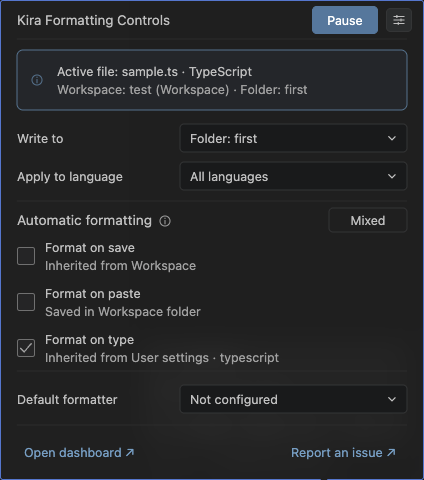
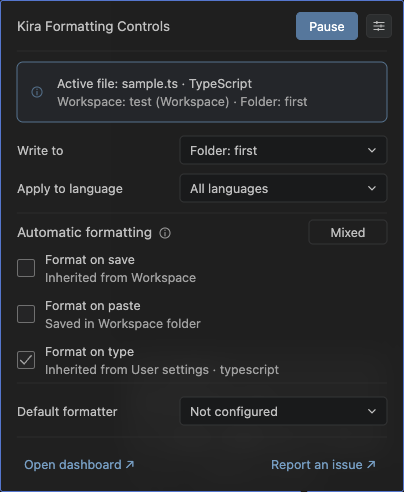
style(status): apply padded compact header and clearer help

diff --git a/shared/status-artwork.ts b/shared/status-artwork.ts
@@ -118,7 +118,7 @@ export function statusArtwork(
     anchor: "start" | "middle" = "start",
   ) =>
     `<text x="${x}" y="${y}" font-size="${size}" fill="${color}" text-anchor="${anchor}" dominant-baseline="central">${escapeText(value)}</text>`;
-  const line = (y: number) => `<path d="M5 ${y}H395" stroke="${p.line}"/>`;
+  const line = (y: number) => `<path d="M5 ${y}H375" stroke="${p.line}"/>`;
   const infoGlyph = (x: number, y: number, color: string) =>
     `<circle cx="${x}" cy="${y}" r="5" stroke="${color}" fill="none"/><circle cx="${x}" cy="${y - 2.75}" r=".55" fill="${color}"/><path d="M${x} ${y - 0.46}v3.2" stroke="${color}" stroke-width="1.1" stroke-linecap="round"/>`;
   const rect = (
@@ -132,10 +132,10 @@ export function statusArtwork(
   ) =>
     `<rect x="${x}" y="${y}" width="${w}" height="${h}" rx="${r}" stroke="${stroke}" fill="${fill}"/>`;
   const dropdown = (y: number, value: string) =>
-    rect(168, y, 227, 28) +
-    centeredText(178, y + 14, shortened(value, 30)) +
-    `<path d="M376.5 ${y + 12.25}l3.5 3.5 3.5-3.5" fill="none" stroke="${p.fg}" stroke-width="1.2"/>`;
-  const svg = (height: number, contents: string, width = 400) =>
+    rect(168, y, 207, 28) +
+    centeredText(178, y + 14, shortened(value, 28)) +
+    `<path d="M356.5 ${y + 12.25}l3.5 3.5 3.5-3.5" fill="none" stroke="${p.fg}" stroke-width="1.2"/>`;
+  const svg = (height: number, contents: string, width = 380) =>
     `<svg xmlns="http://www.w3.org/2000/svg" width="${width}" height="${height}" viewBox="0 0 ${width} ${height}"><g font-family="-apple-system, BlinkMacSystemFont, Segoe WPC, Segoe UI, system-ui, Ubuntu, Droid Sans, sans-serif" font-weight="400">${contents}</g></svg>`;
   const state = context.flags.every(Boolean)
     ? "Enabled"
@@ -165,7 +165,7 @@ export function statusArtwork(
     height: number,
     contents: string,
     alt: string,
-    width = 400,
+    width = 380,
   ) => ({ svg: svg(height, contents, width), alt, width, height });
   // Keep the info gap stable when the renderer selects a wider fallback font.
   const formattingHeading = `<text x="5" y="14" dominant-baseline="central" font-size="13.5" textLength="135" lengthAdjust="spacingAndGlyphs" fill="${p.fg}">Automatic formatting</text>`;
@@ -181,7 +181,7 @@ export function statusArtwork(
         centeredText(
           33,
           y + 27,
-          shortened(sourceNotes[i] ?? "", 54),
+          shortened(sourceNotes[i] ?? "", 51),
           12.5,
           p.muted,
         )
@@ -210,18 +210,18 @@ export function statusArtwork(
       16,
     ),
     header: image(
-      28,
-      centeredText(5, 14, "Kira Formatting Controls", 13.5),
+      40,
+      centeredText(5, 20, "Kira Formatting Controls", 13.5),
       "Kira Formatting Controls",
-      270,
+      250,
     ),
     context: image(
       76,
       line(1) +
-        rect(5, 12, 390, 60, p.focus, p.info, 6) +
+        rect(5, 12, 370, 60, p.focus, p.info, 6) +
         infoGlyph(25, 42, p.focus) +
-        centeredText(45, 33, shortened(file, 51)) +
-        centeredText(45, 51, shortened(workspace, 51), 12.5, p.muted),
+        centeredText(45, 33, shortened(file, 48)) +
+        centeredText(45, 51, shortened(workspace, 48), 12.5, p.muted),
       `${file}. ${workspace}.`,
     ),
     scopes: image(
@@ -246,8 +246,8 @@ export function statusArtwork(
       formattingHeading +
         // Optical alignment with the heading's visible glyphs, not its font box.
         infoGlyph(153, 15, p.muted) +
-        rect(317, 2, 78, 24, p.border, "none") +
-        centeredText(356, 14, state, 12.5, p.fg, "middle"),
+        rect(297, 2, 78, 24, p.border, "none") +
+        centeredText(336, 14, state, 12.5, p.fg, "middle"),
       `Automatic formatting: ${state}`,
     ),
     formatting: image(
@@ -269,13 +269,13 @@ export function statusArtwork(
       rect(
         0.5,
         0.5,
-        65,
+        61,
         27,
         context.canPause ? p.primary : p.border,
         context.canPause ? p.primary : p.button,
       ) +
         centeredText(
-          33,
+          31,
           14,
           pauseLabel,
           12.5,
@@ -283,16 +283,18 @@ export function statusArtwork(
           "middle",
         ),
       pauseLabel,
-      66,
+      62,
     ),
-    headerGap: image(28, "", "", 8),
+    // A taller, unlinked spacer centers the real buttons without enlarging
+    // their click targets. Native row insets provide the remaining padding.
+    headerGap: image(40, "", "", 8),
     dashboard: image(
       28,
       `<text x="12" y="14" dominant-baseline="central" font-size="12.5" textLength="110.57" lengthAdjust="spacingAndGlyphs" fill="${p.accent}">Open dashboard ↗</text>`,
       "Open dashboard ↗",
       139,
     ),
-    footerGap: image(36, "", "", 128),
+    footerGap: image(36, "", "", 108),
     issue: image(
       28,
       `<text x="12" y="14" dominant-baseline="central" font-size="12.5" textLength="104.81" lengthAdjust="spacingAndGlyphs" fill="${p.accent}">Report an issue ↗</text>`,

diff --git a/test/status.ts b/test/status.ts
@@ -79,7 +79,7 @@ export async function reviewStatus(
           badgeOffsetX: badgeText.x + badgeText.width/2 - 39,
           badgeOffsetY: badgeText.y + badgeText.height/2 - 14,
           contextOffsetY: (file.y + workspace.y + workspace.height)/2 - 42,
-          pauseOffsetX: pauseText.x + pauseText.width/2 - 33,
+          pauseOffsetX: pauseText.x + pauseText.width/2 - art.pause.width/2,
           pauseOffsetY: pauseText.y + pauseText.height/2 - 14,
           summaryHeadingOffsetY: summaryHeading.y + summaryHeading.height/2 - 14,
           summaryIconOffsetY: summaryIcon.y + summaryIcon.height/2 - 14,
@@ -301,6 +301,11 @@ export async function reviewStatus(
   const issueBounds = await issue.getByRole("img").boundingBox();
   assert.ok(contextBounds && dashboardBounds && issueBounds);
   assert.equal(
+    contextBounds.width,
+    380,
+    "The card uses the approved narrower content width",
+  );
+  assert.equal(
     dashboardBounds.x,
     contextBounds.x,
     "Footer shares the context artwork's left edge",
@@ -386,7 +391,7 @@ export async function reviewStatus(
   assert.equal(await pauseLink.getAttribute("title"), statusHelp.pause);
   const pauseImage = pauseLink.getByRole("img", { name: "Pause", exact: true });
   assert.equal(await pauseImage.getAttribute("title"), null);
-  assert.equal((await pauseImage.boundingBox())?.width, 66);
+  assert.equal((await pauseImage.boundingBox())?.width, 62);
   assert.equal((await pauseImage.boundingBox())?.height, 28);
   const pauseBounds = await pauseImage.boundingBox();
   const formatterBounds = await formatter.boundingBox();
@@ -400,6 +405,30 @@ export async function reviewStatus(
   const center = (box: { y: number; height: number }) => box.y + box.height / 2;
   assert.ok(Math.abs(center(pauseBounds) - center(settingsBounds)) <= 1);
   assert.ok(Math.abs(center(pauseBounds) - center(headerBounds)) <= 1);
+  const headerTopGap = pauseBounds.y - hovered.y;
+  const headerBottomGap =
+    contextBounds.y + 1 - (pauseBounds.y + pauseBounds.height);
+  assert.ok(
+    headerTopGap >= 10 &&
+      headerTopGap <= 14 &&
+      headerBottomGap >= 10 &&
+      headerBottomGap <= 14 &&
+      Math.abs(headerTopGap - headerBottomGap) <= 2,
+    `Header padding stays balanced around the button (${headerTopGap}px above, ${headerBottomGap}px below)`,
+  );
+  assert.equal(
+    await hover.evaluate(
+      (element, point) =>
+        Boolean(
+          element.ownerDocument
+            .elementFromPoint(point.x, point.y)
+            ?.closest("a"),
+        ),
+      { x: pauseBounds.x + pauseBounds.width / 2, y: pauseBounds.y - 4 },
+    ),
+    false,
+    "Header padding does not enlarge the Pause/Resume click target",
+  );
   assert.ok(
     pauseBounds.x + pauseBounds.width < settingsBounds.x,
     "Pause precedes Settings in the header",

diff --git a/test/unit/status-hover.ts b/test/unit/status-hover.ts
@@ -47,7 +47,7 @@ test("reference artwork has live values, accessible descriptions and read-only f
     JSON.parse(decodeURIComponent(match[1] ?? "")),
   );
   assert.deepEqual(actions, [[7, "pause"]]);
-  assert.match(html, /width="400" height="76"/);
+  assert.match(html, /width="380" height="76"/);
   assert.equal(art.header.alt, "Kira Formatting Controls");
   assert.match(art.state.alt, /Mixed/);
   assert.match(art.summary.alt, /Mixed/);
@@ -174,7 +174,7 @@ test("information is hover-only and header actions retain their destinations", (
       button[2],
       ` title="${paused ? statusHelp.resume : statusHelp.pause}"`,
     );
-    assert.match(button[3] ?? "", /width="66" height="28"/);
+    assert.match(button[3] ?? "", /width="62" height="28"/);
     assert.doesNotMatch(
       button[3] ?? "",
       /until you resume|previous formatting/,
@@ -193,11 +193,11 @@ test("information is hover-only and header actions retain their destinations", (
       assert.doesNotMatch(row, /<a\b/);
     assert.match(
       html,
-      /title="Shows the active file, its language and workspace\.&#10;Settings may differ by language or folder\."/,
+      /title="This summary is based on the active file\.&#10;Settings may differ by language or workspace folder\."/,
     );
     assert.match(
       html,
-      /title="Formatting status for save, paste and type\.&#10;1\. Enabled:/,
+      /title="Automatic formatting settings for save, paste and type\.&#10;1\. Enabled:/,
     );
     assert.match(html, /title="Open Kira Formatting Controls dashboard"/);
     assert.match(html, /title="Open a new issue on GitHub"/);

diff --git a/shared/status-help.ts b/shared/status-help.ts
@@ -2,14 +2,14 @@ export const statusHelp = {
   pause: "Pause automatic formatting until you resume.",
   resume: "Restore your previous formatting settings.",
   file: [
-    "Shows the active file, its language and workspace.",
-    "Settings may differ by language or folder.",
+    "This summary is based on the active file.",
+    "Settings may differ by language or workspace folder.",
   ].join("\n"),
   formatting: [
-    "Formatting status for save, paste and type.",
-    "1. Enabled: All three triggers are enabled.",
-    "2. Disabled: All three triggers are disabled.",
-    "3. Mixed: Some triggers are enabled.",
+    "Automatic formatting settings for save, paste and type.",
+    "1. Enabled: All three are on.",
+    "2. Disabled: All three are off.",
+    "3. Mixed: Some are on; others are off.",
   ].join("\n"),
 } as const;
 

diff --git a/shared/status-hover.ts b/shared/status-hover.ts
@@ -42,7 +42,7 @@ export function statusHover(
   const pause = context.canPause
     ? `<a href="${link("pause")}" title="${pauseTitle}">${image(art.pause)}</a>`
     : image(art.pause, pauseTitle);
-  return `<table width="400"><colgroup><col width="270"><col width="130"></colgroup><tbody>${[
+  return `<table width="${art.context.width}"><colgroup><col width="${art.header.width}"><col width="${art.context.width - art.header.width}"></colgroup><tbody>${[
     `<tr><td>${image(art.header)}</td><td align="right">${pause}${image(art.headerGap)}<a href="command:workbench.action.openSettings?${encodeURIComponent(JSON.stringify(["editor.formatOn"]))}" title="Open VS Code Settings">${image(art.settings)}</a></td></tr>`,
     fullRow(titled(image(art.context), statusHelp.file)),
     fullRow(image(art.scopes)),

diff --git a/docs/status-controls.md b/docs/status-controls.md
@@ -2,7 +2,7 @@
 
 Hover and click open the same anchored card above the Formatting status-bar item. Click focuses and pins it; Escape dismisses it. Enter on the focused status item opens it. A normal status click creates neither a docked Panel view nor an editor tab.
 
-The header shows **Kira Formatting Controls**, then the fixed-width blue Pause/Resume button, an 8px gap and an approximately 11.2px three-slider Settings icon inside a fixed 26px by 24px box. Version details remain in the Extensions listing. The app icon appears in that listing; the card has no app logo. The package ID remains `rajudhami.formatting-controls`.
+The padded header shows **Kira Formatting Controls**, then the fixed-width blue Pause/Resume button with approximately 12px of space above and below, an 8px gap and an approximately 11.2px three-slider Settings icon inside a fixed 26px by 24px box. Version details remain in the Extensions listing. The app icon appears in that listing; the card has no app logo. The package ID remains `rajudhami.formatting-controls`.
 
 ![Anchored formatting controls](assets/status-card-dark.png)
 
@@ -17,7 +17,7 @@ Both information icons share the same 11px vector shape. The file-context icon i
 - The default formatter is shown below the three settings.
 - The footer provides **Open dashboard ↗** and **Report an issue ↗**. Issue reporting opens [this repository's new-issue form](https://github.com/kira-explore/formatting-controls/issues/new); it does not submit an issue or upload diagnostics automatically.
 
-The complete file box and Automatic formatting summary row have stable explanatory hover text on their images. Neither row is a link or a keyboard focus target. Clicking them does not invoke a command, show a link focus outline, open a notification, change settings or rebuild the card. Dynamic values remain in the card rather than changing the help text. Settings retains a descriptive hover title. The transparent blue borderless footer buttons identify their destinations on hover. Pause/Resume explains its current action on hover; its separate caption row has been removed. Long visible labels are shortened while full values remain in image alternatives.
+The complete file box and Automatic formatting summary row have stable explanatory hover text on their images. Neither row is a link or a keyboard focus target. Clicking them does not invoke a command, show a link focus outline, open a notification, change settings or rebuild the card. Dynamic values remain in the card rather than changing the help text. File help reads “This summary is based on the active file.” followed by “Settings may differ by language or workspace folder.” Formatting help starts with “Automatic formatting settings for save, paste and type.” and has separate numbered lines: Enabled means all three are on; Disabled means all three are off; Mixed means some are on and others are off. Settings retains a descriptive hover title. The transparent blue borderless footer buttons identify their destinations on hover. Pause/Resume explains its current action on hover; its separate caption row has been removed. Long visible labels are shortened while full values remain in image alternatives.
 
 ## Manual Pause/Resume
 
@@ -41,7 +41,7 @@ Read-only dropdowns use standard outlined fields with normal text and arrows. Ch
 
 VS Code's public `StatusBarItem.tooltip` accepts Markdown, images and command links; arbitrary form styling is sanitized. Locally generated inert SVG images preserve the approved layout, with native links for actions and hover-only titles for help. No scripts, external images, rendering network calls or rendering files are used.
 
-The 400px content width follows the approved reference. The title and section heading use 13.5px regular text and body/control text 12.5px, including source notes, button labels and footer links. Icons, 17px checkboxes and dropdown arrows are reduced to match. Read-only fields have 28px outlines and the fixed status badge has a 24px outline. Setting rows use a 46px rhythm with approximately 10px between each checkbox and its text. Checked boxes show an outlined tick; unchecked boxes retain the same neutral surface. High-contrast themes retain distinct ticks and outlines. The file/workspace block and context info icon are vertically centered, with a 14px gap between the icon and text. The formatting heading, info glyph and fixed-width status badge share one hover-only image with an optical adjustment for the icon, rather than mixing a text baseline with icon coordinates. The badge explanation remains discoverable through the visible info icon. The blue filled Pause/Resume button uses white text, matching the reference Upgrade button’s appearance while retaining the native pause picker flow. Its 66px by 28px dimensions remain fixed across both labels; a read-only User-scope display keeps neutral styling. Borderless footer artwork shares the same content width and aligns to the card edges independently of VS Code's native table-column sizing. Its 139px and 133px button widths leave a 128px unlinked gutter.
+The approved compact layout uses a 380px content width (approximately 404px including the native hover frame and insets). The title and section heading use 13.5px regular text and body/control text 12.5px, including source notes, button labels and footer links. Icons, 17px checkboxes and dropdown arrows are reduced to match. Read-only fields have 28px outlines and the fixed status badge has a 24px outline. Setting rows use a 46px rhythm with approximately 10px between each checkbox and its text. Checked boxes show an outlined tick; unchecked boxes retain the same neutral surface. High-contrast themes retain distinct ticks and outlines. The file/workspace block and context info icon are vertically centered, with a 14px gap between the icon and text. The formatting heading, info glyph and fixed-width status badge share one hover-only image with an optical adjustment for the icon, rather than mixing a text baseline with icon coordinates. The badge explanation remains discoverable through the visible info icon. The blue filled Pause/Resume button uses white text, matching the reference Upgrade button’s appearance while retaining the native pause picker flow. Its 62px by 28px dimensions remain fixed across both labels; a read-only User-scope display keeps neutral styling. Borderless footer artwork shares the same content width and aligns to the card edges independently of VS Code's native table-column sizing. Its 139px and 133px button widths leave a 108px unlinked gutter.
 
 Transparent artwork reveals the native hover surface. Dark, light, high-contrast and high-contrast-light palettes follow the theme kind; arbitrary custom theme colors/fonts are not available inside the image renderer. Native links follow the editor's own hover/focus styling. The public Markdown tooltip cannot reproduce Copilot's custom grey icon-button hover fill or enforce a custom hover underline. This limitation does not change layout or actions.
 

diff --git a/CHANGELOG.md b/CHANGELOG.md
@@ -6,8 +6,8 @@
 - Set card typography to 13.5px headings and 12.5px body text, with proportionally smaller settings/info glyphs, checkboxes and arrows. Pause/Resume now uses a blue fill and white text with fixed dimensions.
 - Detect unsaved destination settings before Pause/Resume starts, preserving edits and recovery data. An Open settings file warning helps users save the document and retry; unrelated dirty files do not block changes.
 - Styled Open dashboard and Report an issue as transparent blue borderless buttons with Pause-sized height, no underline and a hand cursor across each complete button.
-- Moved the fixed-width Pause/Resume button to the header before Settings, with its explanation in a tooltip. Removed the separate pause caption row.
-- Made both information rows hover-only images with no command links or link focus outlines, and optically aligned the formatting info icon with its heading.
+- Added the approved padded header: a fixed 62px Pause/Resume button before Settings, balanced vertical spacing, and narrower 380px card content. The action explanation is a tooltip; the separate caption row is removed.
+- Made both information rows hover-only images with no command links or link focus outlines. Clarified the two-line file help and the numbered Enabled/Disabled/Mixed explanations, and optically aligned the formatting info icon with its heading.
 - Added the regular-VS-Code status card: hover and click share one anchored card, click pins it, and Escape dismisses it.
 - Show effective formatting, scope, language, formatter and saved/inherited sources through read-only checkbox/dropdown artwork. Formatting remains visible with a fixed Enabled/Disabled/Mixed badge and explanatory help.
 - Added formatting-only Pause/Resume with durable recovery that preserves save actions and later edits.
